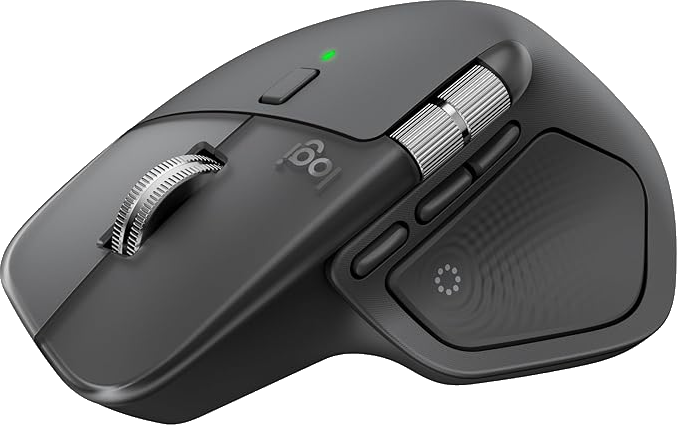
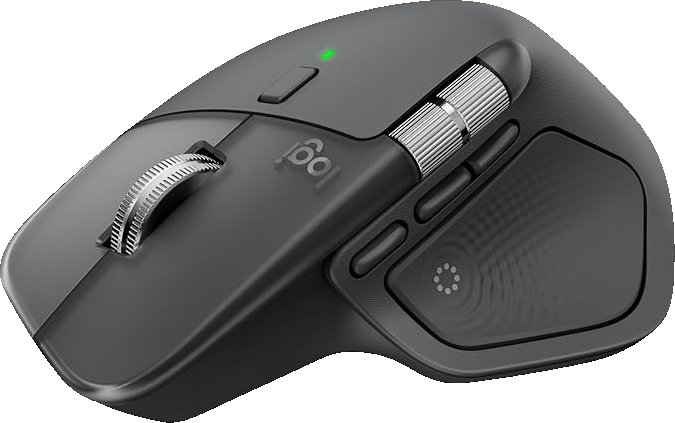
fix(buttons): clean image edges and align hotspots to the real buttons
Follow-up to the 3/4 MX Master 4 view:
- remove the white fringe the first background-removal left (higher floodfill
  fuzz + 1px alpha erode), so the mouse sits cleanly on the dark theme
- re-measure every hotspot against the photo so the dots land on the actual
  buttons: mode-shift button (top, by the LED), middle on the wheel, the two
  side pills for forward/back, thumb wheel, gesture on the thumb rest, and the
  haptic Actions Ring (6-dot icon)

diff --git a/overlay/settings_constants.py b/overlay/settings_constants.py
@@ -19,46 +19,46 @@ _BASE_MOUSE_BUTTONS = {
     "middle": {
         "name": "Middle Button",
         "action": "Middle Click",
-        "pos": (0.63, 0.25),  # Top of MagSpeed scroll wheel
+        "pos": (0.67, 0.27),  # Top of MagSpeed scroll wheel
         "line_from": "top",
     },
     "shift_wheel": {
         "name": "Shift Wheel Mode",
         "action": "SmartShift",
-        "pos": (0.41, 0.18),  # Mode-shift button in front of the scroll wheel
+        "pos": (0.35, 0.20),  # Mode-shift button on top (by the status LED)
         "line_from": "top",
     },
     "forward": {
         "name": "Forward",
         "action": "Forward",
-        "pos": (0.61, 0.40),  # Upper thumb button (pill)
+        "pos": (0.61, 0.42),  # Upper thumb button (pill)
         "line_from": "right",
     },
     "back": {
         "name": "Back",
         "action": "Back",
-        "pos": (0.59, 0.50),  # Lower thumb button (pill)
+        "pos": (0.60, 0.50),  # Lower thumb button (pill)
         "line_from": "right",
     },
     "horizontal_scroll": {
         "name": "Horizontal Scroll",
         "action": "Scroll Left/Right",
-        "pos": (0.30, 0.47),  # Ribbed thumb wheel (front of thumb flank)
+        "pos": (0.28, 0.46),  # Ribbed thumb wheel (front of thumb flank)
         "line_from": "left",
     },
     "gesture": {
         "name": "Gestures",
         "action": "Virtual desktops",
-        "pos": (0.50, 0.58),  # Thumb rest / gesture button
+        "pos": (0.54, 0.56),  # Thumb rest / gesture area
         "line_from": "r_up",
-        "label_y": 0.58,
+        "label_y": 0.60,
     },
     "thumb": {
         "name": "Show Actions Ring",
         "action": "Radial Menu",
-        "pos": (0.55, 0.67),  # Haptic Actions Ring panel (6-dot icon)
+        "pos": (0.64, 0.62),  # Haptic Actions Ring panel (6-dot icon)
         "line_from": "r_up",
-        "label_y": 0.73,
+        "label_y": 0.74,
     },
 }
 